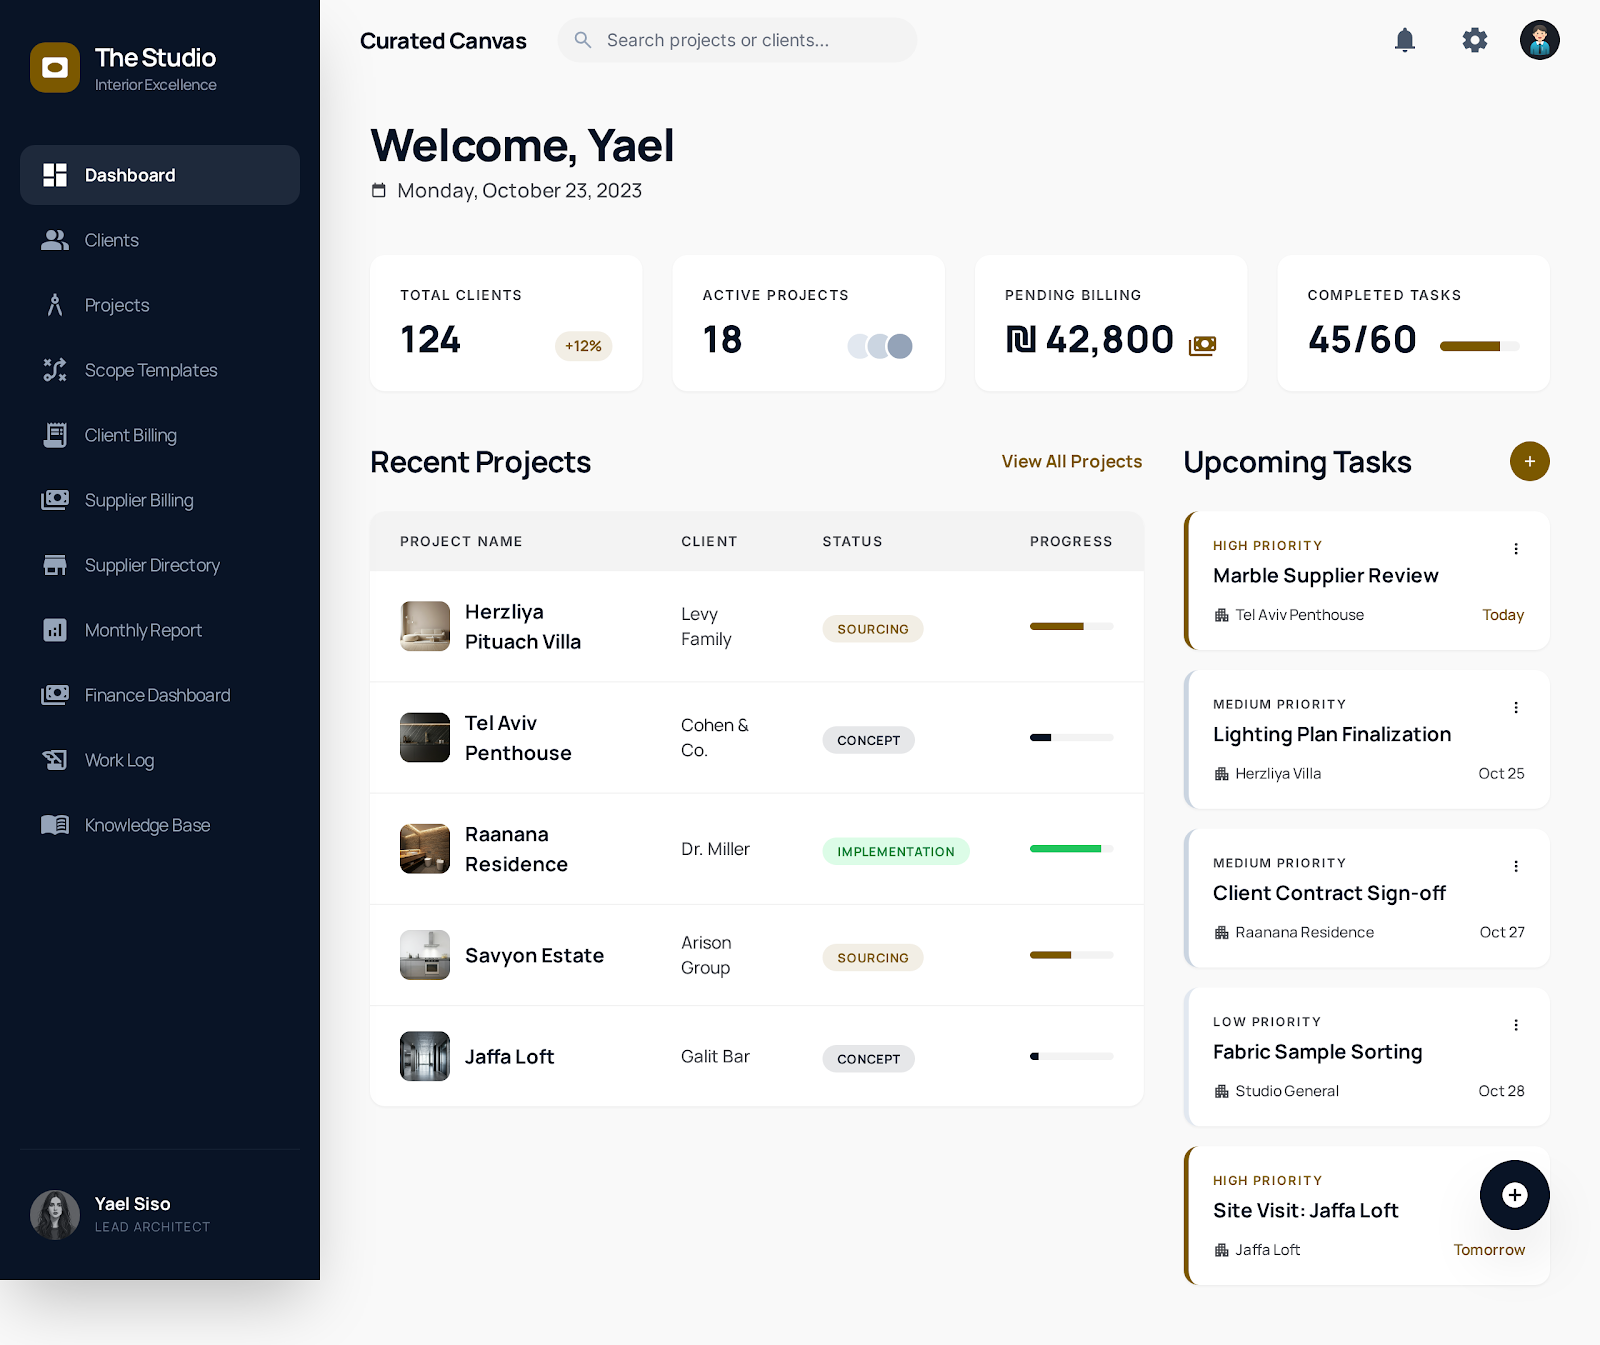
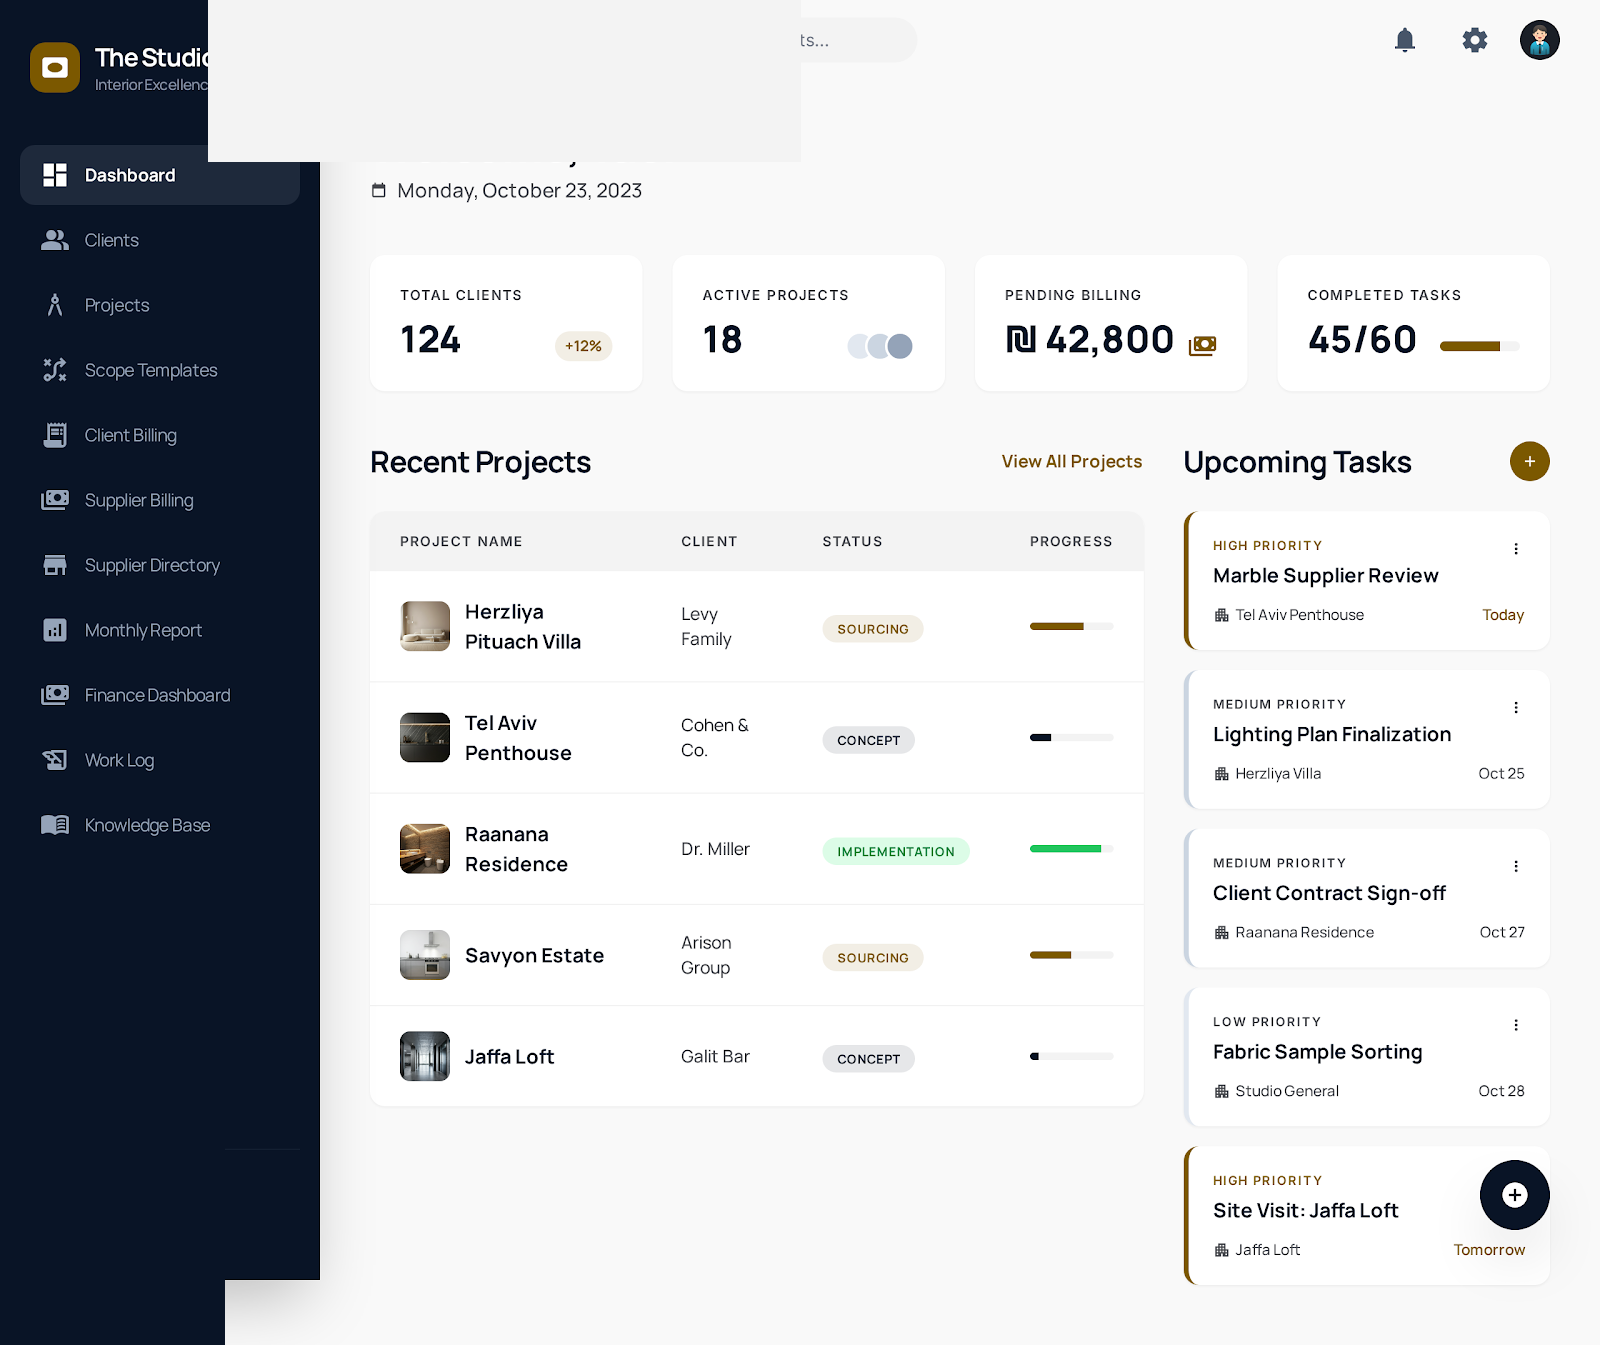
פרטיות: הסרת שמות יעל סיסו מתמונת הדאשבורד

Changed region(s): [[0.125, 0.0, 0.4375, 0.1249], [0.0, 0.8743, 0.1562, 1.0], [0.25, 0.0, 0.3125, 0.0625]]

diff --git a/index.html b/index.html
@@ -175,8 +175,7 @@
   "knowsAbout": ["קבלנות", "עיצוב פנים", "ניהול עסקים קטנים", "תמחור", "גבייה"],
   "sameAs": [
     "https://www.linkedin.com/in/talya-osher",
-    "https://www.instagram.com/talya_osher_a/",
-    "https://www.facebook.com/profile.php?id=61552207812515"
+    "https://www.instagram.com/talya_osher_a/"
   ]
 }
 </script>
@@ -547,7 +546,6 @@ document.getElementById('contact-form').addEventListener('submit', async functio
 <div class="flex gap-8 items-center font-['Heebo'] text-sm">
 <a class="text-white/70 hover:text-[#E9C46A] transition-colors duration-200" href="https://www.linkedin.com/in/talya-osher" target="_blank" rel="noopener noreferrer">לינקדאין</a>
 <a class="text-white/70 hover:text-[#E9C46A] transition-colors duration-200" href="https://www.instagram.com/talya_osher_a/" target="_blank" rel="noopener noreferrer">אינסטגרם</a>
-<a class="text-white/70 hover:text-[#E9C46A] transition-colors duration-200" href="https://www.facebook.com/profile.php?id=61552207812515" target="_blank" rel="noopener noreferrer">פייסבוק</a>
 <a class="text-white/70 hover:text-[#E9C46A] transition-colors duration-200" href="#">תנאי שימוש</a>
 <a class="text-white/70 hover:text-[#E9C46A] transition-colors duration-200" href="#">מדיניות פרטיות</a>
 </div>

diff --git a/linkedin-posts/2026-04-28-management-system-signs.md b/linkedin-posts/2026-04-28-management-system-signs.md
@@ -1,0 +1,46 @@
+# פוסט לינקדאין — 28.4.2026
+**נושא:** 5 סימנים שהעסק שלך צריך מערכת ניהול
+**סטטוס:** 👀 ממתין לאישור טליה
+
+---
+
+## טקסט לפרסום (העתיקי ישירות ללינקדאין):
+
+האקסל עדיין "עובד" — אבל יש לי שאלה אחת בשבילך:
+
+כמה פעמים השבוע שאלת את עצמך "איפה הסיכום מהפגישה עם X?" 🤔
+
+אם התשובה היא "כמה פעמים" — יכול להיות שהעסק שלך כבר גדל מעבר לאקסל.
+
+5 סימנים שהגיע הזמן לשדרג:
+
+✅ **1. אתה מחפש מידע על לקוחות במקומות שונים**
+אקסל אחד לאנשי קשר, פתקים על הפגישות, מיילים על הצעות המחיר... כשמידע מפוזר — דברים נופלים בין הכיסאות.
+
+✅ **2. הצעות המחיר לוקחות לך שעה לכל לקוח**
+כשאין תבנית מסודרת — כל הצעת מחיר מתחילה מאפס. ואז מגיעות השגיאות.
+
+✅ **3. לא ברור מה שולמה ומה עדיין פתוח**
+גבייה ידנית = כסף שנשכח. זה פשוט עלות שאין לה סיבה.
+
+✅ **4. כשעובד חדש מצטרף — צריך להסביר לו "את כל המערכת"**
+אם הידע נמצא בראש שלך ולא במערכת — העסק תלוי בך בצורה שמגבילה צמיחה.
+
+✅ **5. אתה לא יודע מה מביא לך הכי הרבה כסף**
+בלי נתונים — לא ניתן לקבל החלטות. מה המחיר הממוצע לעסקה? מה שיעור ההמרה?
+
+---
+
+המעבר ממצב "מסתדרים" לניהול אמיתי הוא לא רק עניין של כלים — הוא עניין של בנייה נכונה של תשתית שמאפשרת גדילה.
+
+זה בדיוק מה שאני עושה עם בעלי עסקים 👇
+
+---
+
+**הצעת תמונה לפוסט:**
+תמונה עם 5 נקודות כתובות על רקע נקי (לבן/כחול כהה), או תמונה מקצועית שלך ליד לוח לבן עם מתווה. אפשר גם להשתמש בתמונה מהאתר.
+
+---
+
+**האשטגים מומלצים:**
+`#ניהולעסקי` `#עסקיםקטנים` `#קבלנים` `#מעצבותפנים` `#מערכתניהול` `#ייעוץעסקי` `#talyaosher`
